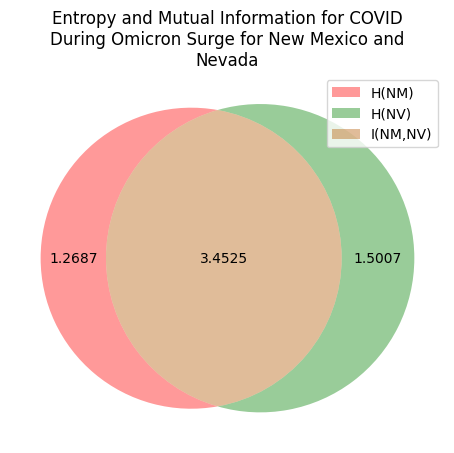
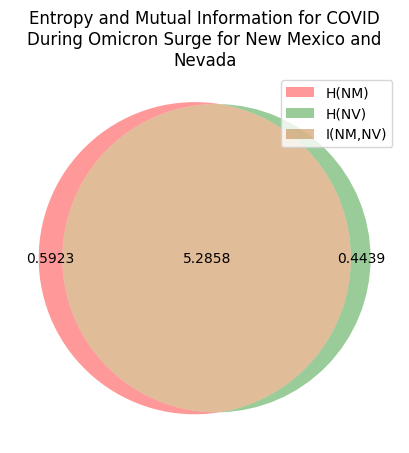
updating binning, te interpretation

diff --git a/part3/analyze.py b/part3/analyze.py
@@ -9,8 +9,9 @@ from textwrap import wrap
 
 fn = 'United_States_COVID-19_Cases_and_Deaths_by_State_over_Time.csv'
 jarLocation = "/Users/gjacobu/Documents/school/CAS/unm-cs523-project1/jidt/infodynamics.jar"
-startJVM(getDefaultJVMPath(), "-ea", "-Djava.class.path=" + jarLocation)
-num_bins = 100
+# Start the JVM (add the "-Xmx" option with say 1024M if you get crashes due to not enough memory space)
+startJVM(getDefaultJVMPath(), "-ea", "-Djava.class.path=" + jarLocation, '-Xmx12000m')
+num_bins = 500
 dpi = 100
 
 df = pd.read_csv(fn, parse_dates=['submission_date'])
@@ -66,6 +67,7 @@ def venn_diagram(y0, y1):
     subsets = [round(x, 4) for x in [y0_venn_val, y1_venn_val, mi]]
     v = venn2(subsets=subsets, set_labels=['', '', ''])
     plt.legend(handles=v.patches, labels=["H(NM)","H(NV)","I(NM,NV)"])
+    return y0_venn_val, y1_venn_val, mi
 
 def te(y0, y1):
     #First, discretize the values
@@ -97,7 +99,7 @@ plt.title(title, fontsize=18)
 plt.savefig('fig_3_covid_plot.png', dpi=dpi, bbox_inches="tight")
 plt.clf()
 
-venn_diagram(nm_data['new_case'], nv_data['new_case'])
+y0_venn_val, y1_venn_val, mi = venn_diagram(nm_data['new_case'], nv_data['new_case'])
 title = wrap("Entropy and Mutual Information for COVID During Omicron Surge for New Mexico and Nevada", 40)
 plt.title('\n'.join(title))
 plt.savefig('fig_3_covid_venn.png', dpi=dpi, bbox_inches="tight")
@@ -106,5 +108,7 @@ plt.clf()
 
 transfer_ent_nm_nv = te(nm_data['new_case'], nv_data['new_case'])
 transfer_ent_nv_nm = te(nv_data['new_case'], nm_data['new_case'])
-print(f"Transfer Entropy (nm, nv): {transfer_ent_nm_nv}")
-print(f"Transfer Entropy (nv, nm): {transfer_ent_nv_nm}")
+print(f"Transfer Entropy (nm -> nv): {transfer_ent_nm_nv}")
+print(f"Transfer Entropy (nv -> nm): {transfer_ent_nv_nm}")
+print(f"Transfer Entropy (nm -> nv) / nv_venn_val = {transfer_ent_nm_nv / y1_venn_val}")
+print(f"Transfer Entropy (nv -> nm) / nm_venn_val = {transfer_ent_nv_nm / y0_venn_val}")
